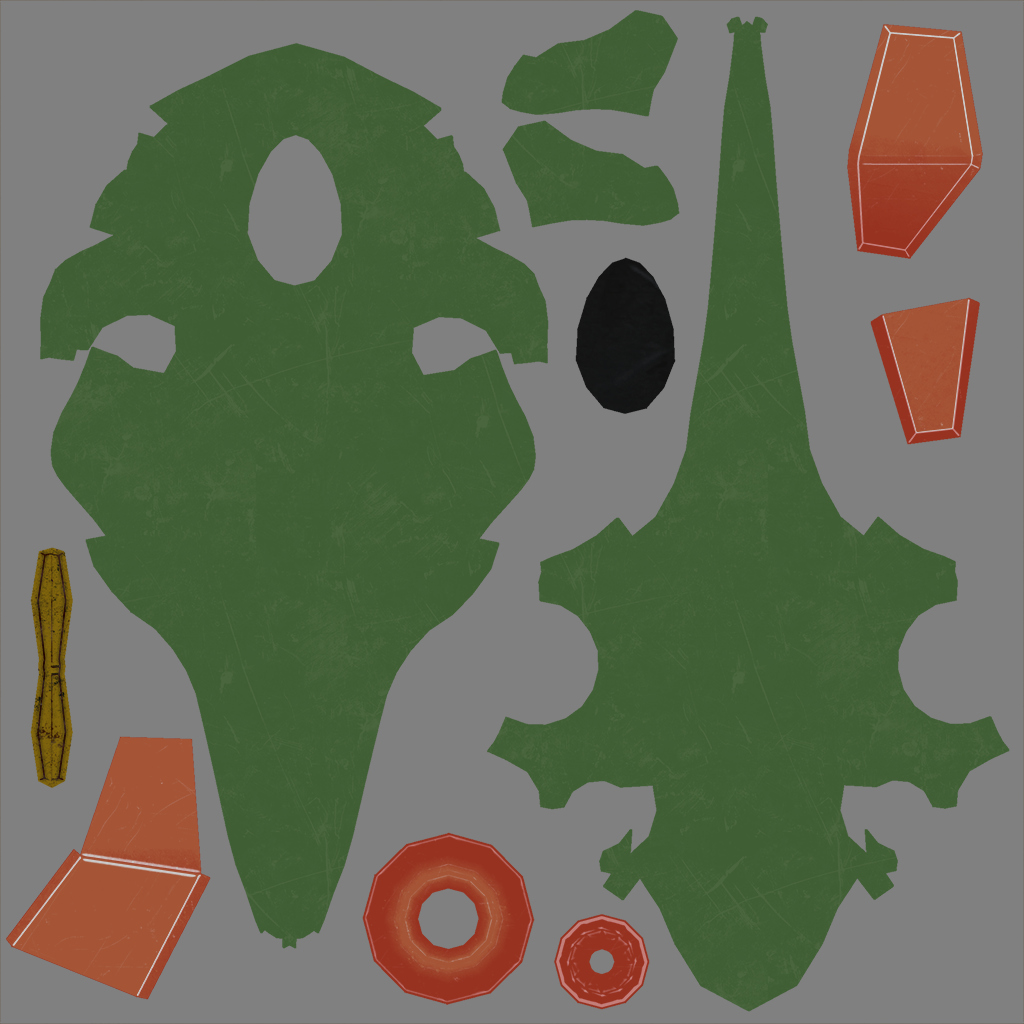
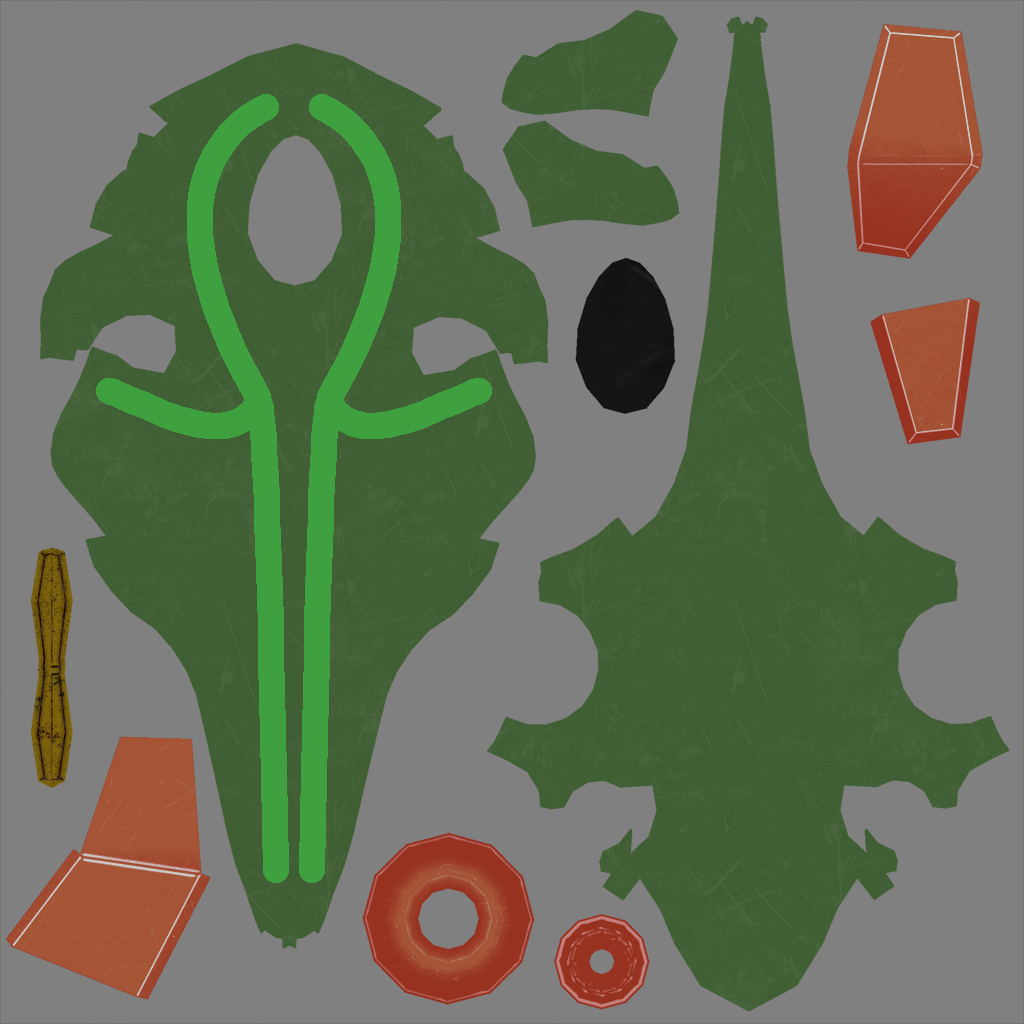
Added hp textures for player2.

Changed region(s): [[0.0938, 0.0938, 0.5, 0.875]]

diff --git a/src/Game/GameObject/Player/Player2.cpp b/src/Game/GameObject/Player/Player2.cpp
@@ -32,8 +32,8 @@ Player2::Player2(Scene* scene) : SuperPlayer(scene) {
     mState = LIGHTDAMAGE;
 
     mHealthyTexture = Resources().CreateTexture2DFromFile("Resources/player2_diff.png");
-    mMediumDamageTexture = Resources().CreateTexture2DFromFile("Resources/player2_diff.png");
-    mHeavyDamageTexture = Resources().CreateTexture2DFromFile("Resources/player2_diff.png");
+    mMediumDamageTexture = Resources().CreateTexture2DFromFile("Resources/player2_diff_medium_damage.png");
+    mHeavyDamageTexture = Resources().CreateTexture2DFromFile("Resources/player2_diff_heavy_damage.png");
 
     mNode = CreateEntity();
     mNode->AddComponent<Component::Transform>()->scale *= 0.35f;
